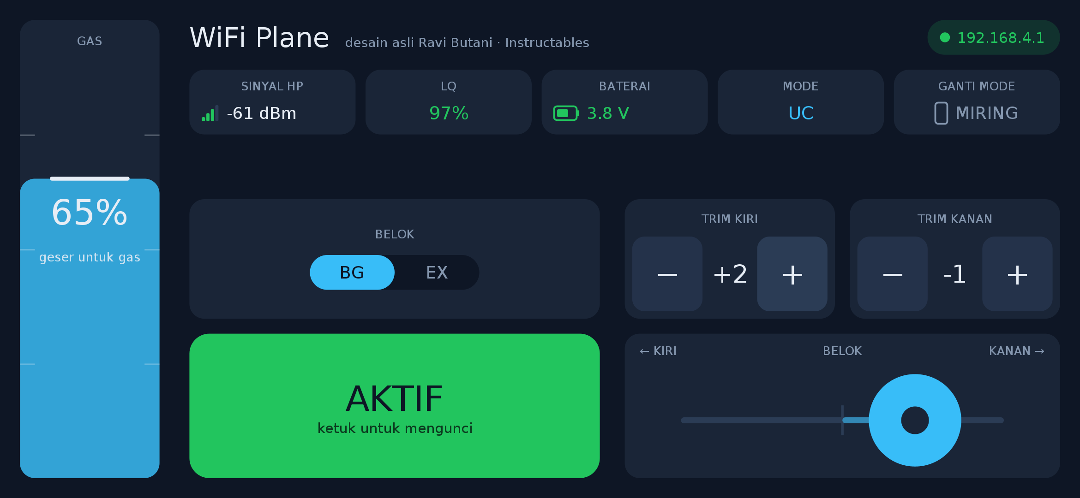
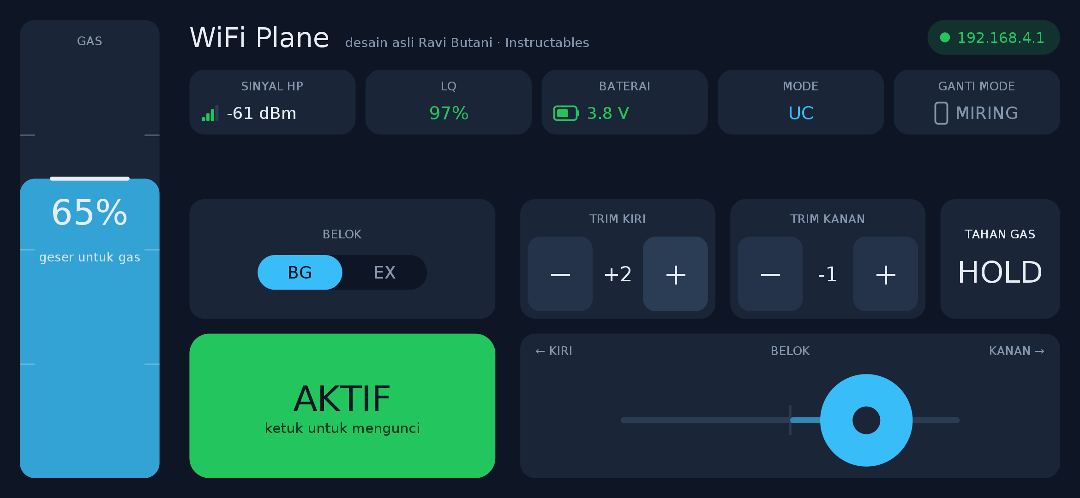
Bring HOLD back in the landscape MANUAL mode
HOLD sits at the right end of the trim row, above the steering slider,
so the right thumb can tap it while the left thumb holds the throttle.
Same behaviour as before: only while active, gas kept when the finger
lifts, tapping it again turns it off and sets gas to 0, and locking,
pausing or a screen-shape change turns it off. Portrait stays without
HOLD.

The trim cards narrow to make room; the trim value shrinks to fit
between the buttons, and steering travel is capped at 34u so it feels
the same on wide and narrow screens.

Claude-Session: https://claude.ai/code/session_01W8D9ecBaicbRhRCFCTcMfM

diff --git a/README.md b/README.md
@@ -68,7 +68,7 @@ Ada dua mode kemudi, diganti dengan tombol GANTI MODE saat terkunci:
 
 * MIRING (layar potret): belok dengan memiringkan HP (sensor accelerometer), gas di slider tengah. Tanpa trim.
 
-* MANUAL (layar landscape): gas di slider kiri (ibu jari kiri, geser ke atas), belok di slider horizontal kanan-bawah (ibu jari kanan, geser ke kiri/kanan), trim di atas slider belok.
+* MANUAL (layar landscape): gas di slider kiri (ibu jari kiri, geser ke atas), belok di slider horizontal kanan-bawah (ibu jari kanan, geser ke kiri/kanan), trim dan HOLD di atas slider belok.
 
 Mode MIRING:
 
@@ -78,9 +78,9 @@ Mode MIRING:
 
 Mode MANUAL:
 
-| Terbang, belok kanan | Belok kiri penuh, sinyal lemah |
+| Terbang, belok kanan | HOLD, belok kiri penuh, sinyal lemah |
 |---|---|
-| ![Manual terbang](ProcessingAndroidApp/tampilan/5_manual_terbang.png) | ![Manual sinyal lemah](ProcessingAndroidApp/tampilan/6_manual_sinyal_lemah.png) |
+| ![Manual terbang](ProcessingAndroidApp/tampilan/5_manual_terbang.png) | ![Manual HOLD](ProcessingAndroidApp/tampilan/6_manual_hold_sinyal_lemah.png) |
 
 Gambar di atas dirender dari kode `draw()` yang sama; huruf di HP bisa sedikit berbeda.
 
@@ -94,21 +94,23 @@ Gambar di atas dirender dari kode `draw()` yang sama; huruf di HP bisa sedikit b
 
 * Mode MIRING: output motor kiri dan kanan dalam persen di kiri-kanan slider gas (dihitung dengan rumus yang sama dengan paket yang dikirim), dan indikator kemiringan HP di bawahnya.
 
-* Mode MANUAL: trim kiri dan kanan ([−] nilai [+]) di atas slider belok, supaya bisa diketuk ibu jari kanan. AKTIFKAN di kiri-bawah, jauh dari titik ibu jari kanan.
+* Mode MANUAL: trim kiri dan kanan ([−] nilai [+]) dan HOLD di atas slider belok, supaya bisa diketuk ibu jari kanan selagi ibu jari kiri memegang gas. AKTIFKAN di kiri-bawah, jauh dari titik ibu jari kanan.
 
 * Setiap tombol bergetar singkat saat diketuk.
 
 **Kendali dan keselamatan**
 
-* Multi-touch: setiap jari dibaca sendiri, jadi gas, belok dan tombol bisa dipakai bersamaan, misalnya menahan gas sambil mengetuk trim atau BG/EX dengan jari lain.
+* Multi-touch: setiap jari dibaca sendiri, jadi gas, belok dan tombol bisa dipakai bersamaan, misalnya menahan gas sambil mengetuk HOLD, trim atau BG/EX dengan jari lain.
 
 * Gas: sentuh dan geser slider gas, atas = penuh. Gas langsung mengikuti jari saat slider disentuh, dan hanya jari yang mulai menyentuh di slider saat AKTIF yang mengubah gas; jari lain yang ikut menyentuh slider diabaikan. Jari gas diangkat membuat gas menjadi 0, walaupun jari lain masih menyentuh layar, sehingga motor mati saat pesawat jatuh. Saat gas 0, kedua motor mati, apa pun kemiringan, slider belok dan trim-nya.
 
 * Belok (mode MANUAL): kenop mengikuti jari, ujung slider sama dengan HP miring 90 derajat di mode MIRING, dan BG/EX tetap berlaku. Jari diangkat membuat pesawat lurus lagi. Ada zona mati kecil di tengah. Di mode MANUAL kemiringan HP tidak dipakai.
 
+* HOLD (hanya mode MANUAL, oranye saat aktif, hanya bisa saat AKTIF): gas ditahan walaupun jari diangkat, sehingga ibu jari kiri bebas, misalnya untuk mengatur trim. Ketuk lagi untuk mematikannya, yang juga membuat gas menjadi 0; kalau jari masih di slider gas, angkat dulu untuk memberi gas lagi. Mode MIRING tidak punya HOLD.
+
 * Trim (hanya mode MANUAL): TRIM KIRI menambah motor kanan (pesawat cenderung ke kiri), TRIM KANAN menambah motor kiri. Batas ±30 per trim. Nilainya disimpan di memori aplikasi setiap kali diketuk, jadi tetap ada saat aplikasi ditutup dan dibuka lagi. Di mode MIRING trim tidak dipakai.
 
-* AKTIFKAN / AKTIF mengunci dan membuka kendali. Mengunci membuat gas menjadi 0. Jari yang sudah ada di slider gas saat AKTIFKAN diketuk tidak memberi gas; angkat dan sentuh lagi.
+* AKTIFKAN / AKTIF mengunci dan membuka kendali. Mengunci juga mematikan HOLD dan membuat gas menjadi 0. Jari yang sudah ada di slider gas saat AKTIFKAN diketuk tidak memberi gas; angkat dan sentuh lagi.
 
 * Ganti mode hanya bisa saat terkunci. Saat AKTIF, tombolnya redup dan muncul pesan "Kunci dulu untuk ganti mode". Layar landscape dikunci ke satu arah (tidak ikut sensor), jadi tidak berputar sendiri saat terbang. Kalau bentuk layar tetap berubah saat AKTIF (misalnya layar terpisah), kendali langsung dikunci.
 
